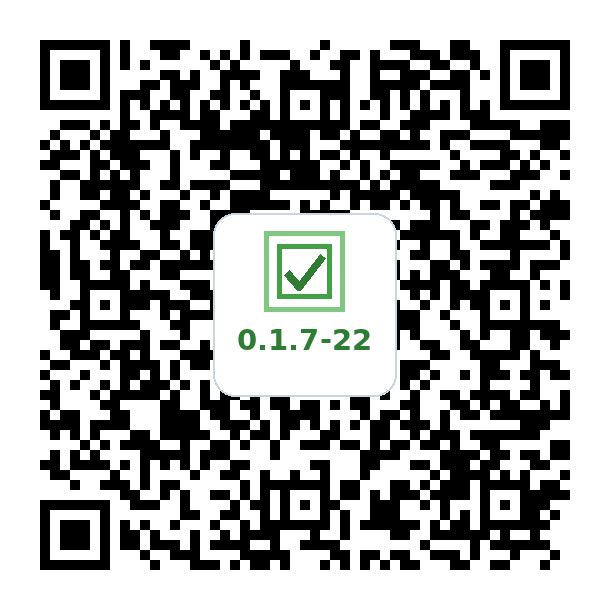
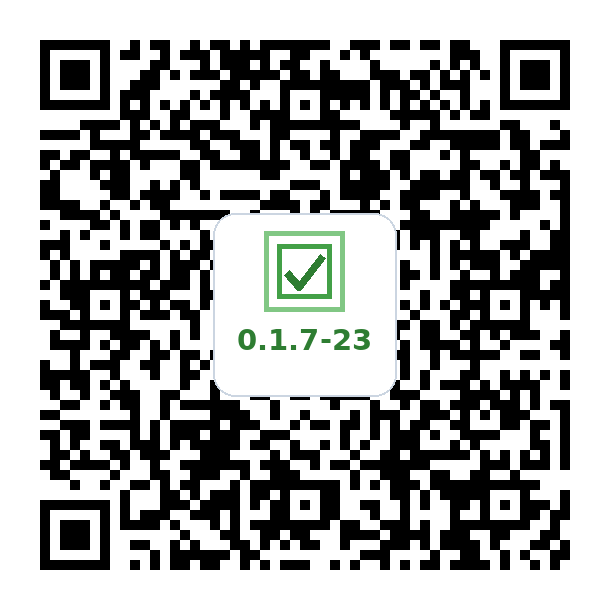
deploy: 26377305a96b010449f2d714dcb7af3b026e02e6

Changed region(s): [[0.0623, 0.0623, 0.9344, 0.9344], [0.5918, 0.5607, 0.623, 0.5918], [0.5295, 0.623, 0.5607, 0.6541]]

diff --git a/index.html b/index.html
@@ -186,9 +186,9 @@
           <div class="qr-container">
             <img src="qr.png" alt="MicroTasking APK QR Code">
             <br>
-            <a href="https://github.com/vemcg/MicroTasking/releases/download/v0.1.7-22/MicroTasking-v0.1.7-22.apk" class="btn" target="_blank" rel="noopener">Download MicroTasking APK (v0.1.7-22)</a>
+            <a href="https://github.com/vemcg/MicroTasking/releases/download/v0.1.7-23/MicroTasking-v0.1.7-23.apk" class="btn" target="_blank" rel="noopener">Download MicroTasking APK (v0.1.7-23)</a>
             <br>
-            <a href="https://github.com/vemcg/MicroTasking/releases/download/v0.1.7-22/MicroTasking-v0.1.7-22.apk" target="_blank" rel="noopener">Open the download again</a>
+            <a href="https://github.com/vemcg/MicroTasking/releases/download/v0.1.7-23/MicroTasking-v0.1.7-23.apk" target="_blank" rel="noopener">Open the download again</a>
           </div>
         </li>
         <li>
